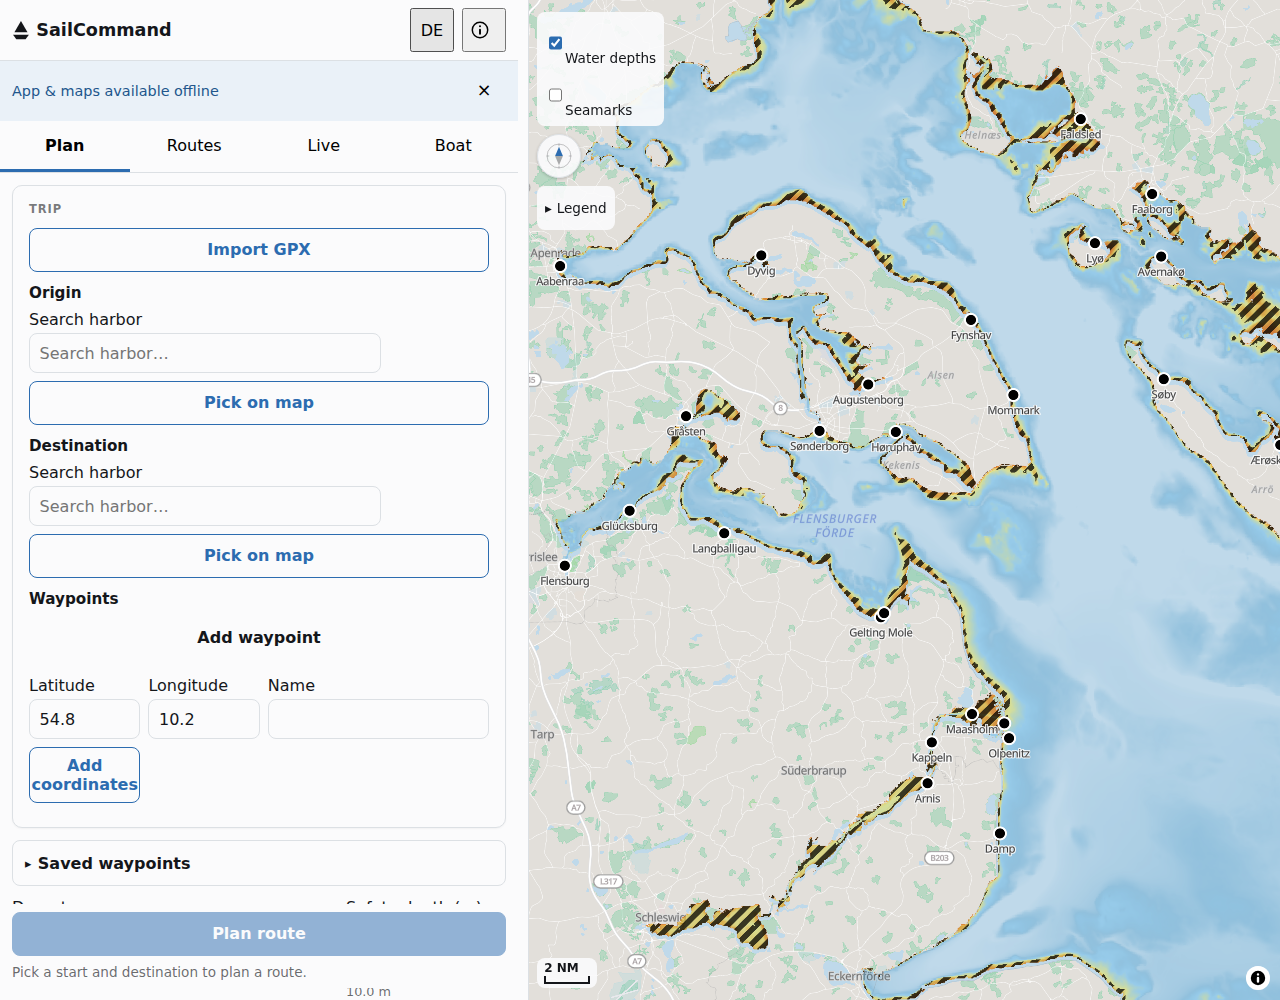
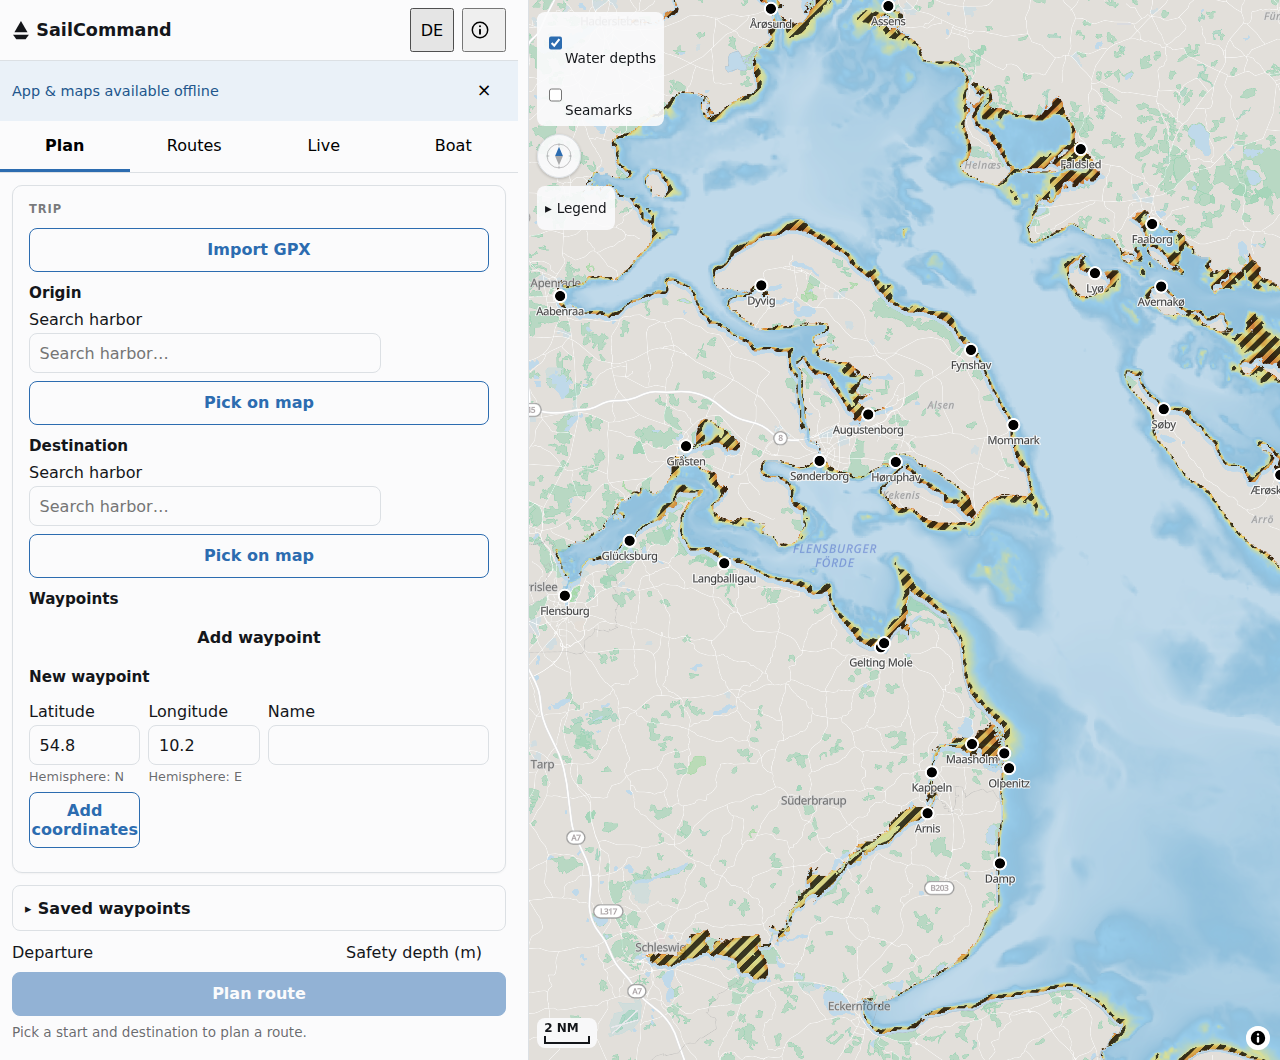
docs: v0.24.0 release sweep (#132 ritual)
Fold the six pending changelog.d fragments into `## [0.24.0] - 2026-09-07`
as top-level bullets and delete them; re-point the comparison links. All six
parse back through `release.yml`'s own awk extractor as six entries, so none
was glued onto its neighbour by the anchored `ENTRY_RE`.

ROADMAP: bump `Current release:` in this same commit (not deferred to the
back-merge — the v0.12.1 cut showed deferring it makes the sweep commit
contradict its own `## Now` header), roll Now -> v0.24.0 and Next -> v0.25.0.
The release summary is derived from the CHANGELOG entries, NOT from the issue
count or the `type:` label: seventeen issues closed, six changelog entries
covering six distinct issues, five of them in this milestone and the sixth
(#886) partially delivered and still open in v0.25.0. Deriving it from
`type:` returns a different, wrong split — that error shipped at v0.23.0.

CONTRIBUTING: roll the milestone bullets to v0.25.0/v0.26.0 and extend the
closed range to v0.23.0 — deliberately NOT to v0.24.0, whose milestone object
closes only at tag push and is the documented mid-cut exception.

security-assurance-case: bump the self-dated Status header to the v0.24.0 cut
and re-derive A06's Dependabot figure live (0 open) rather than carrying the
previous cut's number forward.

README: delete the hardcoded "2352 tests across 151 files as of 369ccbb"
clause. Re-measured 177 test files against that SHA's 151, with 187 commits
[…]

diff --git a/docs/security-assurance-case.md b/docs/security-assurance-case.md
@@ -1,7 +1,7 @@
 # SailCommand security assurance case
 
-**Status:** current as of 2026-09-05, describing `develop` at the time of
-writing (`v0.23.0` cut). Reviewed at each release cut.
+**Status:** current as of 2026-09-07, describing `develop` at the time of
+writing (`v0.24.0` cut). Reviewed at each release cut.
 **Audience:** users deciding whether to trust the app, and reviewers assessing
 the project (this document is the artifact for the OpenSSF Best Practices
 `assurance_case` criterion).
@@ -362,7 +362,7 @@ place to occur, not that it was judged unlikely.
 | **A03 Injection** (CWE-79 XSS, CWE-89 SQLi, CWE-611 XXE) | Countered | No SQL and no server-side interpreter. XSS: no `innerHTML` / `dangerouslySetInnerHTML` / `eval` / `new Function` anywhere; React escapes by default. XXE: `DOMParser` with `application/xml` does not resolve external entities. CodeQL's `js/xss-through-dom` alert on that parse is a **documented false positive** — its DOM-XSS sink model is mime-insensitive, while an `application/xml` parse is inert and the parser extracts only numeric coordinates and enumerated notices |
 | **A04 Insecure design** | Countered | This document is the design argument; see [§5](#5-secure-design-argument). Threats were considered against the architecture, and the largest control is architectural: no backend, no accounts, no central data |
 | **A05 Security misconfiguration** | Countered | Minimal workflow permissions, SHA-pinned actions, protected branches, secret scanning with push protection, no debug endpoints, static hosting. GitHub Pages cannot set response headers, so the app injects a `<meta http-equiv="Content-Security-Policy">` at build time (`cspMeta()` in `app/vite.config.ts`) with `default-src 'self'`, a `connect-src` allowlist of `'self'` plus Open-Meteo and aisstream.io, `worker-src 'self'` (no `blob:` — it would defeat `script-src 'self'`), `img-src` widened to `data:`/`blob:` where maplibre-gl 6 demonstrably needs it, and no `'unsafe-inline'`/`'unsafe-eval'`, plus the static `<meta name="referrer" content="strict-origin-when-cross-origin">` already present in `app/index.html` ([#223](https://github.com/DocGerd/sail_command/issues/223)). The meta form cannot express `frame-ancestors` or `report-uri` — accepted, static host with no framing threat model and no collector |
-| **A06 Vulnerable and outdated components** (CWE-1104) | Countered | Lockfiles for every ecosystem; Dependabot across five update configurations spanning three package ecosystems (npm ×2, pip ×2, github-actions) weekly plus security updates; no open Dependabot alerts — the live state is the fact rather than this sentence: `gh api repos/DocGerd/sail_command/dependabot/alerts --jq '[.[]\|select(.state=="open")]\|length'` (0 at the `v0.23.0` cut); a committed third-party notices inventory whose drift fails CI; no vendored or forked convenience copies |
+| **A06 Vulnerable and outdated components** (CWE-1104) | Countered | Lockfiles for every ecosystem; Dependabot across five update configurations spanning three package ecosystems (npm ×2, pip ×2, github-actions) weekly plus security updates; no open Dependabot alerts — the live state is the fact rather than this sentence: `gh api repos/DocGerd/sail_command/dependabot/alerts --jq '[.[]\|select(.state=="open")]\|length'` (0 at the `v0.24.0` cut); a committed third-party notices inventory whose drift fails CI; no vendored or forked convenience copies |
 | **A07 Identification and authentication failures** | N/A by architecture | There is no authentication. No accounts, no passwords, no sessions, no password reset, nothing to brute-force |
 | **A08 Software and data integrity failures** (CWE-502) | **Partially countered** | Reproducible double-build with byte-drift gating, SHA-pinned actions, protected branches, post-deploy smoke probe, and — from `v0.8.0` — SSH-signed release tags verifiable via `git tag -v` ([#322](https://github.com/DocGerd/sail_command/issues/322)); the signing key is registered and the `git tag -v` verification path is proven end to end for every signed tag including `v0.8.0`, so a user willing to run that command can confirm a tag traces to the maintainer. GitHub's Verified badge — the no-local-config channel — is a documented exception for the `v0.8.0` tag itself (signed under an email not registered on the maintainer's GitHub account; see `v0.8.1`'s CHANGELOG entry) and does show correctly for **every** tag from `v0.8.1` onward, each reporting `verified: true, reason: "valid"` — re-derivable with `gh api repos/DocGerd/sail_command/git/tags/$(git rev-parse refs/tags/vX.Y.Z) --jq .verification` rather than trusted from a list here. No untrusted deserialization: IndexedDB uses structured clone of the app's own records, and a corrupt record is isolated to its own row rather than blanking the list. **Still partial**: signing covers the tagged commit's authorship, not the deployed artifact bytes GitHub Pages serves, and `v0.1.0`–`v0.7.0` remain permanently unsigned |
 | **A09 Logging and monitoring failures** | Accepted, documented | There is deliberately no telemetry — a privacy choice that means client-side attacks cannot be observed centrally. Repository-side monitoring exists (CodeQL, Dependabot, Scorecard, deploy smoke probe). For a client-only app with no user data on any server, the privacy benefit is judged to outweigh the lost visibility |

diff --git a/ROADMAP.md b/ROADMAP.md
@@ -13,51 +13,60 @@ The authoritative, always-current view is the
 milestones. This file is the human-readable summary of that state, refreshed at
 each release cut.
 
-Current release: **v0.23.0**. See [`CHANGELOG.md`](CHANGELOG.md) for what has
+Current release: **v0.24.0**. See [`CHANGELOG.md`](CHANGELOG.md) for what has
 shipped.
 
-## Now — v0.23.0
+## Now — v0.24.0
 
-The `v0.23.0` cut (2026-09-05) completed the
-[`v0.23.0` milestone](https://github.com/DocGerd/sail_command/milestones),
-eleven issues in total — four of them user-visible (five changelog
-entries; #961 contributed two); the other seven were test-coverage,
-agent-tooling, and documentation fixes with no user-facing change.
+The `v0.24.0` cut (2026-09-07) completed the
+[`v0.24.0` milestone](https://github.com/DocGerd/sail_command/milestones),
+seventeen issues in total. Six changelog entries shipped, covering six
+distinct issues — five of them from this milestone; the sixth
+([#886](https://github.com/DocGerd/sail_command/issues/886)) delivered two
+of its three parts and stays open in `v0.25.0`. The milestone's remaining
+twelve issues were prose-accuracy, test-coverage, agent-tooling and
+documentation fixes with no user-facing change.
 
-Any seamark visible and tappable on the map can now be added as a route
-waypoint — the earlier restriction to cardinal, lateral, and
-isolated-danger marks is lifted
-([#966](https://github.com/DocGerd/sail_command/issues/966)).
+Saved waypoints now appear on the chart as their own map layer — a hollow
+via-coloured ring, labelled with the waypoint name where there is room for
+it, drawn above the depth shading and below every harbour, seamark, AIS and
+route marker. While the Add waypoint pick is armed, tapping one inserts that
+waypoint by name instead of the raw tapped coordinate
+([#924](https://github.com/DocGerd/sail_command/issues/924)).
 
-The narrow-viewport toast/compass squeeze left open at the end of
-`v0.22.0`'s "Now" is now closed: the app header and notification banners
-occupy their own rows above the map instead of floating over it, so no
-banner can intercept a tap meant for the map controls beneath it. Short
-landscape phone screens keep the previous layout, where that change would
-have left the route planner too little room
-([#909](https://github.com/DocGerd/sail_command/issues/909)).
+The waypoint coordinate-entry fields now show the hemisphere (N/S/E/W) for
+the current latitude and longitude, and the entry group names its target
+("New waypoint" vs. "Editing waypoint N") with an explicit way to cancel out
+of edit mode. Parsing typed degrees-and-minutes coordinates is the part of
+that issue still outstanding, tracked as
+[#1005](https://github.com/DocGerd/sail_command/issues/1005)
+([#886](https://github.com/DocGerd/sail_command/issues/886)).
 
-AIS vessel glyphs are now tappable within a target that meets the locked
-≥44px gloved-use touch-target floor at harbor-approach zooms, up from a
-16-28.8px target that made precise on-water taps difficult
-([#957](https://github.com/DocGerd/sail_command/issues/957)).
+A recalculate now announces its completion to screen readers no matter which
+tab you are on — a single app-level region replaces two per-tab ones that
+only worked on the Plan and Routes tabs, so Live and Boat were previously
+silent ([#983](https://github.com/DocGerd/sail_command/issues/983)).
 
-Two accessibility fixes to the planner's screen-reader announcements: the
-result announcement now re-fires when a departure window is confirmed and
-the plan is replaced in place, instead of staying silent on an unchanged
-plan id, and the saved-plans list now announces a recalculate-and-replace
-result from the Routes tab itself, where the planner's own live region is
-unmounted ([#961](https://github.com/DocGerd/sail_command/issues/961)).
+Three narrow-viewport layout regressions introduced by `v0.23.0`'s own
+header/banner rework are fixed: the app header no longer overlaps the map's
+top-left toggle cluster at short-landscape sizes
+([#985](https://github.com/DocGerd/sail_command/issues/985)), the Live tab's
+AIS connection chip no longer jumps down the map onto the controls below it
+([#991](https://github.com/DocGerd/sail_command/issues/991)), and a MapLibre
+info popup's close button is no longer unreachable behind the map's own
+toggle/legend cluster at mid-size viewports
+([#999](https://github.com/DocGerd/sail_command/issues/999)).
 
-## Next — v0.24.0
+## Next — v0.25.0
 
-The [`v0.24.0` milestone](https://github.com/DocGerd/sail_command/milestones)
+The [`v0.25.0` milestone](https://github.com/DocGerd/sail_command/milestones)
 is the one now being filled, and it will keep growing after this file is
 written — so the milestone page is the list, and no count or enumeration of
-its contents is kept here. Its opening scope, so far, is one issue: saved
-waypoints as a selectable map symbol layer, a follow-up to `v0.21.0`'s
-saved-waypoints panel
-([#924](https://github.com/DocGerd/sail_command/issues/924)).
+its contents is kept here. Its opening scope is the remainder of the
+waypoint coordinate-entry work: parsing typed degrees-and-minutes and
+degrees-minutes-seconds input
+([#886](https://github.com/DocGerd/sail_command/issues/886),
+[#1005](https://github.com/DocGerd/sail_command/issues/1005)).
 
 ## Themes for the next year
 

diff --git a/CHANGELOG.md b/CHANGELOG.md
@@ -7,6 +7,22 @@ and this project adheres to [Semantic Versioning](https://semver.org/spec/v2.0.0
 
 ## [Unreleased]
 
+## [0.24.0] - 2026-09-07
+
+### Added
+
+- Saved waypoints now appear on the chart as their own map layer — a hollow via-coloured ring, labelled with the waypoint name where there is room for it, drawn above the depth shading and below every harbour, seamark, AIS and route marker. While the Add waypoint pick is armed, tapping one inserts that waypoint by name instead of the raw tapped coordinate (#924).
+
+### Changed
+
+- The waypoint coordinate-entry fields now show the hemisphere (N/S/E/W) for the current latitude and longitude, and the entry group names its target ("New waypoint" vs. "Editing waypoint N") with an explicit way to cancel out of edit mode (#886).
+
+### Fixed
+
+- A recalculate now announces its completion to screen readers no matter which tab you're on — a single app-level region replaces two per-tab ones that only worked on the Plan and Routes tabs, so Live and Boat were previously silent (#983).
+- Fixed the app header overlapping the map's top-left toggle cluster and any visible banner at short-landscape viewports (#985).
+- Fixed the Live tab's AIS connection chip jumping ~121px down the map at most narrow viewports, landing on top of the map controls below it (#991).
+- Fixed a MapLibre info popup's close button being unreachable behind the map's own toggle/legend cluster at mid-size viewports (#999).
 ## [0.23.0] - 2026-09-05
 
 ### Added
@@ -980,7 +996,8 @@ and this project adheres to [Semantic Versioning](https://semver.org/spec/v2.0.0
 - German/English (de/en) UI localization (#23).
 - Full offline operation after first load via a service worker precache, including the regional PMTiles basemap with Range/206 support (#26).
 
-[Unreleased]: https://github.com/DocGerd/sail_command/compare/v0.23.0...HEAD
+[Unreleased]: https://github.com/DocGerd/sail_command/compare/v0.24.0...HEAD
+[0.24.0]: https://github.com/DocGerd/sail_command/compare/v0.23.0...v0.24.0
 [0.23.0]: https://github.com/DocGerd/sail_command/compare/v0.22.0...v0.23.0
 [0.22.0]: https://github.com/DocGerd/sail_command/compare/v0.21.0...v0.22.0
 [0.21.0]: https://github.com/DocGerd/sail_command/compare/v0.20.0...v0.21.0

diff --git a/CONTRIBUTING.md b/CONTRIBUTING.md
@@ -175,14 +175,14 @@ labels on **pull requests** are applied automatically from changed paths by
 
 **Milestones**
 
-- `v0.24.0` — the milestone now being filled; it closes when the release PR
+- `v0.25.0` — the milestone now being filled; it closes when the release PR
   merges and the tag is pushed.
-- `v0.25.0` — the next MINOR release, opened fresh at the `v0.23.0` cut per
+- `v0.26.0` — the next MINOR release, opened fresh at the `v0.24.0` cut per
   the roll-forward convention below.
 - `Backlog` — accepted, not yet scheduled into a release.
 - `Icebox` — deferred / maybe-never; revisit opportunistically.
 
-`v0.4.0` through `v0.22.0` are closed (plus the `v0.5.1`, `v0.12.1`, and
+`v0.4.0` through `v0.23.0` are closed (plus the `v0.5.1`, `v0.12.1`, and
 `v0.13.1` patch milestones). Whichever cut is in flight is always the
 exception, and reads the same way every time: its issues are closed while
 its milestone object is not, because that closes only at tag push (first

diff --git a/README.md b/README.md
@@ -138,8 +138,7 @@ npm --prefix app/ run build                      # production build to app/dist
 ```
 
 `npm run test` runs the full unit/property battery (polar interpolation,
-isochrone routing, mask queries, persistence, UI) — 2352 tests across 151
-files as of `369ccbb` (2026-08-31).
+isochrone routing, mask queries, persistence, UI).
 `npm run e2e` builds the app and drives it with Playwright, including a
 true offline reload against a killed preview server.
 
